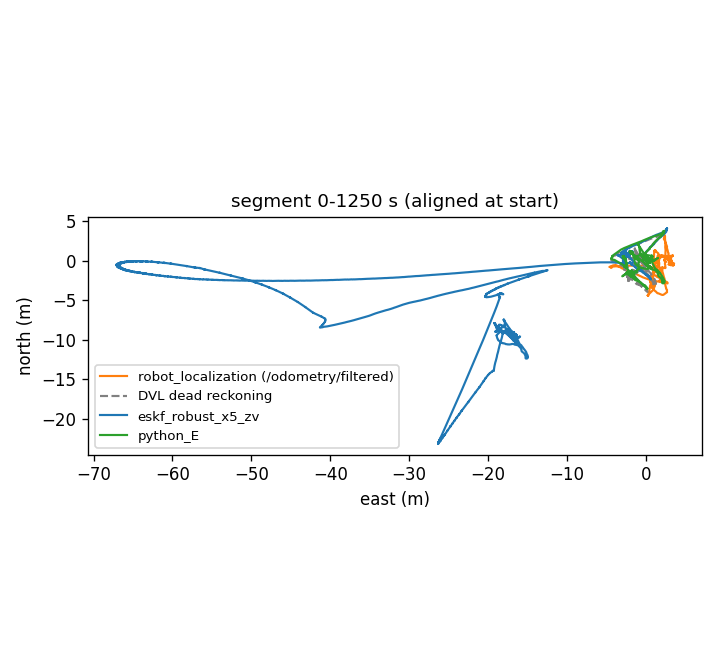
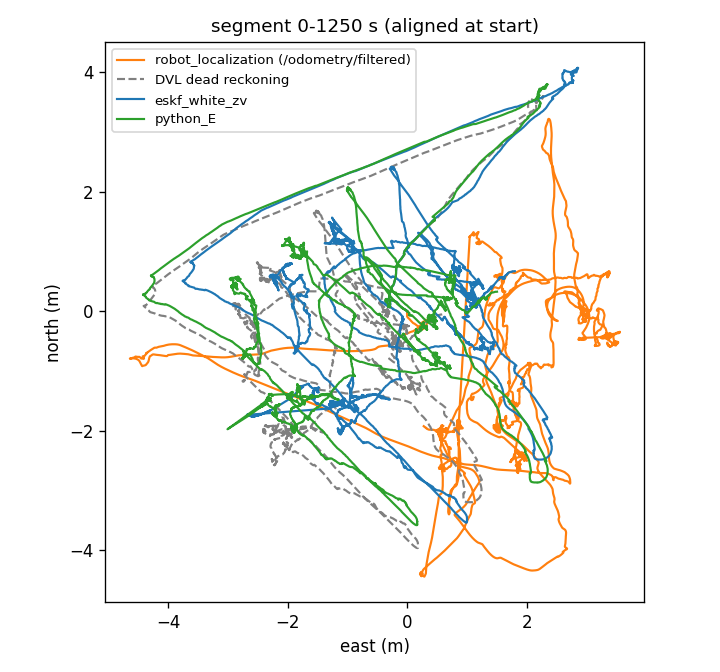
Add the innovation whiteness test and re-tune the ESKF from it
The ESKF now saves normalized innovations; whiteness_test.py checks their
autocorrelation against the white-noise band. The test exposed a vertical
accelerometer bias the filter could not learn (its prior was the in-run
stability): with a 0.2 m/s^2 initial uncertainty both logs estimate the
same bias (-0.14 / -0.16 m/s^2), and the earlier x20-30 noise inflation
turns out to have been compensating for it. The re-tuned variant
(eskf_white_zv: x10 noise, DVL sigma 0.015 m/s) makes the DVL innovations
far closer to white. The VN-200 heading remains strongly correlated.

Changed region(s): [[0.0, 0.0312, 0.9778, 0.9688], [0.6722, 0.8125, 0.7028, 0.8438]]

diff --git a/real_data/whiteness_test.py b/real_data/whiteness_test.py
@@ -1,0 +1,115 @@
+"""Innovation autocorrelation (whiteness) test for the ESKF on a recorded run.
+
+    [REAL_DATA_RUN=<run>] python whiteness_test.py [variant ...]
+
+A correctly modelled Kalman filter has white innovations (Bar-Shalom, Li & Kirubarajan 2001, ch. 5).
+The ESKF saves normalized innovations nu = L^-1 r (S = L L'). For each sensor this script computes
+- the time-averaged normalized autocorrelation  rho(l) = sum nu_k' nu_{k+l} / sqrt(sum |nu_k|^2 sum |nu_{k+l}|^2)
+  over pairs l samples apart inside one continuous stretch (stretches end at gaps > 3x the median spacing),
+  with the 95 % whiteness band +-1.96 / sqrt(K) (K = number of pairs);
+- the per-component autocorrelation (same formula, one component);
+- the mean test: |mean(nu)| against 1.96 / sqrt(N).
+Writes <run results>/whiteness_table.txt and whiteness_acf.png.
+"""
+import sys
+
+import numpy as np
+import matplotlib
+matplotlib.use('Agg')
+import matplotlib.pyplot as plt
+from scipy.io import loadmat
+
+from paths import DATA, RESULTS, RUN
+
+VARIANTS = sys.argv[1:] or ['eskf_ungated_zv', 'eskf_accel30_zv', 'eskf_hdg0p2hz_zv']
+SENSORS = ['dvl', 'depth', 'heading']
+MAX_LAG_S = 10.0
+
+
+def stretches(t):
+    d = np.diff(t)
+    cut = np.where(d > 3 * np.median(d))[0] + 1
+    return np.split(np.arange(len(t)), cut)
+
+
+def acf(nu, t, max_lag):
+    """rho(l), band(l), and per-component rho for l = 1..max_lag (pairs within one stretch only)."""
+    segs = [s for s in stretches(t) if len(s) > max_lag + 5]
+    rho, band, comp = [], [], []
+    for lag in range(1, max_lag + 1):
+        a = np.concatenate([nu[s[:-lag]] for s in segs])
+        b = np.concatenate([nu[s[lag:]] for s in segs])
+        num = np.sum(a * b)
+        rho.append(num / np.sqrt(np.sum(a * a) * np.sum(b * b)))
+        band.append(1.96 / np.sqrt(len(a)))
+        comp.append(np.sum(a * b, axis=0) / np.sqrt(np.sum(a * a, axis=0) * np.sum(b * b, axis=0)))
+    return np.array(rho), np.array(band), np.array(comp)
+
+
+lines = [f'Run: {RUN or "2026-11-05 (uncorrected DVL mounting)"}. Innovation whiteness (autocorrelation) test.',
+         'rho(l): time-averaged normalized autocorrelation of the normalized innovations at lag l;',
+         'white innovations stay inside +-1.96/sqrt(K) at about 95 % of lags. "decorrelates" = first lag inside the band.', '']
+curves = {}
+for v in VARIANTS:
+    f = DATA / f'{v}.mat'
+    if not f.exists():
+        continue
+    r = loadmat(f, squeeze_me=True, struct_as_record=False)
+    if not hasattr(r['innov'], 'dvl'):
+        lines.append(f'{v}: no innovations saved (re-run run_real_log)')
+        continue
+    lines.append(f'== {v}')
+    for s in SENSORS:
+        nu = np.atleast_2d(np.asarray(getattr(r['innov'], s), float))
+        if nu.size == 0:
+            continue
+        if nu.shape[0] == 1 and nu.shape[1] > 3:
+            nu = nu.T
+        t = np.asarray(getattr(r['innov_t'], s), float).ravel()
+        ok = np.all(np.isfinite(nu), axis=1) & np.isfinite(t)
+        nu, t = nu[ok], t[ok]
+        if len(t) < 50:
+            continue
+        dt = float(np.median(np.diff(t)))
+        L = int(round(MAX_LAG_S / dt))
+        rho, band, comp = acf(nu, t, L)
+        out = np.abs(rho) > band
+        first_in = int(np.argmax(~out)) + 1 if (~out).any() else None
+        mean = nu.mean(axis=0)
+        mean_ok = np.abs(mean) < 1.96 / np.sqrt(len(nu))
+        pick = [l for l in (1, 2, 5, 10, 20, 50) if l <= L]
+        lines.append(
+            f'  {s:8s} N={len(nu):6d} spacing {dt * 1000:5.0f} ms | rho at lag ' +
+            ', '.join(f'{l} ({l * dt:.2f} s): {rho[l - 1]:+.3f}' for l in pick) +
+            f' | band ±{band[0]:.3f} | outside band {100 * out.mean():4.0f} % of lags 1..{L}'
+            f' | decorrelates at {"never within %.0f s" % MAX_LAG_S if first_in is None else f"lag {first_in} ({first_in * dt:.2f} s)"}'
+            f' | mean {np.round(mean, 3).tolist()} {"ok" if mean_ok.all() else "BIASED"}')
+        if nu.shape[1] > 1:
+            lines.append(f'  {"":8s} per component at lag 1: ' + ', '.join(f'{c:+.3f}' for c in comp[0]))
+        curves[(v, s)] = (np.arange(1, L + 1) * dt, rho, band)
+text = '\n'.join(lines) + '\n'
+print(text)
+RESULTS.mkdir(parents=True, exist_ok=True)
+(RESULTS / 'whiteness_table.txt').write_text(text)
+
+main = next((v for v in VARIANTS if any(k[0] == v for k in curves)), None)
+if main:
+    shown = [s for s in SENSORS if any(k[1] == s for k in curves)]
+    fig, axs = plt.subplots(1, len(shown), figsize=(5 * len(shown), 4.2), sharey=True)
+    axs = np.atleast_1d(axs)
+    for ax, s in zip(axs, shown):
+        for v, c in zip(VARIANTS, ('tab:blue', 'tab:orange', 'tab:green')):
+            if (v, s) in curves:
+                lag_s, rho, band = curves[(v, s)]
+                ax.plot(lag_s, rho, color=c, lw=1.5, label=v)
+                ax.plot(lag_s, band, color='k', lw=0.8, ls='--')
+                ax.plot(lag_s, -band, color='k', lw=0.8, ls='--')
+        ax.axhline(0, color='0.7', lw=0.8)
+        ax.set_title(f'{s} innovations', fontsize=11)
+        ax.set_xlabel('lag (s)')
+    axs[0].set_ylabel('normalized autocorrelation')
+    axs[0].legend(fontsize=8)
+    fig.suptitle(f'Innovation whiteness test, {RUN or "2026-11-05 uncorrected"} (dashed: 95 % band for white noise)', fontsize=12)
+    plt.tight_layout()
+    plt.savefig(RESULTS / 'whiteness_acf.png', dpi=120)
+    print('saved', RESULTS / 'whiteness_acf.png')

diff --git a/estimator_m/run_real_log.m b/estimator_m/run_real_log.m
@@ -19,6 +19,10 @@ function run_real_log(variants, run)
 %   eskf_oc_robusthdg_zv  as eskf_oc_zv, plus a robust heading update (NIS cap 6.63) against VN-200 yaw jumps
 %   eskf_accel30_zv       as eskf_ungated_zv with accelerometer noise x30 (NIS-tuned on the 2026-11-11 run)
 %   eskf_robust_x5_zv     robust update with accelerometer noise x5 (corrected 2026-11-05 DVL mounting)
+%   eskf_babig_zv         as eskf_ungated_zv, initial accelerometer-bias sigma 0.2 m/s^2 (whiteness test fix)
+%   eskf_accel30_babig_zv as eskf_accel30_zv, initial accelerometer-bias sigma 0.2 m/s^2
+%   eskf_white_zv         re-tuned after the whiteness test: accelerometer-bias sigma0 0.2 m/s^2,
+%                         accelerometer noise x10, DVL sigma 0.015 m/s
 %   eskf_hdg1hz_zv        as eskf_ungated_zv, VN-200 yaw used at 1 Hz (sigma 1.3 deg)
 %   eskf_hdg0p2hz_zv      as eskf_ungated_zv, VN-200 yaw used at 0.2 Hz with sigma 3 deg (less trust in a
 %                         time-correlated, jumpy magnetometer heading)
@@ -44,7 +48,8 @@ for i = 1:numel(variants)
     cfg = tuned; if strcmp(v, 'eskf_datasheet_zv'), cfg = datasheet; end
     if strcmp(v, 'eskf_hdg1hz_zv'), cfg.heading.rate_hz = 1; end
     if strcmp(v, 'eskf_hdg0p2hz_zv'), cfg.heading.rate_hz = 0.2; cfg.heading.sigma = 3 * pi / 180; end
-    if strcmp(v, 'eskf_accel30_zv'), cfg.imu.accel_nd = 30 * config_estimator().imu.accel_nd; end
+    if any(strcmp(v, {'eskf_accel30_zv', 'eskf_accel30_babig_zv'})), cfg.imu.accel_nd = 30 * config_estimator().imu.accel_nd; end
+    if strcmp(v, 'eskf_white_zv'), cfg.imu.accel_nd = 10 * config_estimator().imu.accel_nd; cfg.dvl.sigma = 0.015; end
     if strcmp(v, 'eskf_robust_x5_zv'), cfg.imu.accel_nd = 5 * config_estimator().imu.accel_nd; end
     use_zv = numel(v) > 3 && strcmp(v(end-2:end), '_zv');
     opts = gated;
@@ -56,8 +61,12 @@ for i = 1:numel(variants)
     if strcmp(v, 'eskf_noheading_oc_zv'), opts = struct('oc', true); use = {'dvl', 'depth', 'zero_vel'}; end
     if strcmp(v, 'eskf_oc_zv'), opts = struct('oc', true); end
     if strcmp(v, 'eskf_oc_robusthdg_zv'), opts = struct('oc', true); opts.robust.heading = 6.63; end
-    if any(strcmp(v, {'eskf_hdg1hz_zv', 'eskf_hdg0p2hz_zv', 'eskf_accel30_zv'})), opts = struct(); end
+    if any(strcmp(v, {'eskf_hdg1hz_zv', 'eskf_hdg0p2hz_zv', 'eskf_accel30_zv', 'eskf_babig_zv', ...
+                      'eskf_accel30_babig_zv', 'eskf_white_zv'})), opts = struct(); end
     [tr, imu, meas, x0, P0, raw, cfg] = load_real_log(fullfile(data, 'real_log.mat'), cfg, use_zv);
+    if any(strcmp(v, {'eskf_babig_zv', 'eskf_accel30_babig_zv', 'eskf_white_zv'}))
+        P0(10:12, 10:12) = 0.2^2 * eye(3);    % turn-on accelerometer bias unknown, not the in-run 0.0004 m/s^2
+    end
     tic;
     gaps = zeros(0, 2); if isfield(raw, 'imu_gaps'), gaps = reshape(raw.imu_gaps, [], 2); end
     res = run_segments(tr, imu, meas, cfg, 'rw', x0, P0, log_every, use, opts, gaps, raw.vn_euler_grid);

diff --git a/estimator_m/run_filter.m b/estimator_m/run_filter.m
@@ -41,14 +41,19 @@ end
 Q = eskf_Q(tr.dt, cfg, filter_bias);
 x = x0; P = P0; w_ib = zeros(3, 1);
 nis = struct();
+dims = struct('dvl', 3, 'depth', 1, 'gnss_pos', 3, 'gnss_vel', 3, 'heading', 1, 'zero_vel', 3);
 for s = 1:numel(names)
     if isfield(meas, names{s}) && any(strcmp(use, names{s}))
-        nis.(names{s}) = zeros(1, numel(meas.(names{s})));
-        res.accepted.(names{s}) = true(1, numel(meas.(names{s})));
+        m = numel(meas.(names{s}));
+        nis.(names{s}) = zeros(1, m);
+        res.accepted.(names{s}) = true(1, m);
     else
+        m = 0;
         nis.(names{s}) = [];
         res.accepted.(names{s}) = true(1, 0);
     end
+    res.innov.(names{s}) = NaN(m, dims.(names{s}));   % normalized innovations, for the whiteness test
+    res.innov_t.(names{s}) = NaN(m, 1);               % their times (s)
 end
 nlog = floor(tr.n / log_every) + 1;
 res.t = zeros(nlog, 1); res.err = NaN(nlog, 16); res.sd = zeros(nlog, 16); res.nees = NaN(nlog, 1);
@@ -69,8 +74,10 @@ for k = 1:tr.n + 1                   % sample index (1-based)
         z = meas.(name)(sched(r, 3)).z;
         g = gate.(name);
         if consec.(name) >= opts.max_consecutive_rejects, g = Inf; end
-        [x, P, nv, ok, lam] = eskf_update(x, P, name, z, w_ib, cfg, g, robust.(name), opts.oc);
+        [x, P, nv, ok, lam, nu] = eskf_update(x, P, name, z, w_ib, cfg, g, robust.(name), opts.oc);
         nis.(name)(sched(r, 3)) = nv;
+        res.innov.(name)(sched(r, 3), :) = nu';
+        res.innov_t.(name)(sched(r, 3)) = tr.t(k);
         res.accepted.(name)(sched(r, 3)) = ok;
         if lam > 1, res.downweighted.(name) = res.downweighted.(name) + 1; end
         if ok

diff --git a/real_data/compare_run.py b/real_data/compare_run.py
@@ -20,7 +20,7 @@ from scipy.spatial.transform import Rotation as Rot
 from ekf_localization import EXTRACTED, RUNS, R_DVL_LEVER, load
 from paths import DATA, RESULTS, RUN
 
-ESKF = ['eskf_ungated_zv', 'eskf_accel30_zv', 'eskf_robust_x5_zv', 'eskf_hdg0p2hz_zv', 'eskf_oc_zv', 'eskf_robust_zv',
+ESKF = ['eskf_white_zv', 'eskf_babig_zv', 'eskf_ungated_zv', 'eskf_accel30_zv', 'eskf_robust_x5_zv', 'eskf_hdg0p2hz_zv', 'eskf_oc_zv', 'eskf_robust_zv',
         'eskf_gated_zv', 'eskf_noheading_zv', 'eskf_datasheet_zv']
 
 imu, dvl, _, _ = load()
@@ -134,7 +134,7 @@ fig, axs = plt.subplots(1, len(segs), figsize=(6 * len(segs), 5.6))
 axs = np.atleast_1d(axs)
 style = {'robot_localization (/odometry/filtered)': ('tab:orange', '-'), '/odometry/ekf': ('tab:purple', '-'),
          'DVL dead reckoning': ('gray', '--'), 'eskf_accel30_zv': ('tab:blue', '-'), 'python_E': ('tab:green', '-')}
-main = next((n for n in ('eskf_accel30_zv', 'eskf_robust_x5_zv', 'eskf_ungated_zv') if n in est), None)
+main = next((n for n in ('eskf_white_zv', 'eskf_accel30_zv', 'eskf_ungated_zv') if n in est), None)
 style[main] = ('tab:blue', '-')
 for ax, (a, b) in zip(axs, segs):
     for name, (t, xy) in list(refs.items()) + [(n, (est[n]['t'], est[n]['xy'])) for n in (main, 'python_E') if n in est]:

diff --git a/estimator_m/eskf_update.m b/estimator_m/eskf_update.m
@@ -1,5 +1,7 @@
-function [x, P, nis, accepted, lambda] = eskf_update(x, P, name, z, w_ib, cfg, gate, robust_k2, oc)
+function [x, P, nis, accepted, lambda, nu] = eskf_update(x, P, name, z, w_ib, cfg, gate, robust_k2, oc)
 % ESKF_UPDATE  Joseph-form update, injection, reset G = I. Returns NIS (before any down-weighting).
+% nu: normalized innovation L \ r with S = L L' (before any down-weighting); white with unit covariance
+% when the filter's models are right, which is what the innovation autocorrelation test checks.
 % Optional gate: skip the update (accepted = false) when NIS > gate. Default Inf (no gating).
 % Optional robust_k2: when NIS > robust_k2, inflate the measurement noise by lambda > 1 so that the
 % NIS becomes robust_k2, then update. Outliers keep at most the pull of a borderline measurement and
@@ -20,6 +22,7 @@ if strcmp(name, 'heading'), r = wrap_pi(r); end
 HPH = H * P * H';
 S = HPH + Rm;
 nis = r' * (S \ r);
+nu = chol(0.5 * (S + S'), 'lower') \ r;
 lambda = 1;
 accepted = nis <= gate;
 if ~accepted, return; end

diff --git a/estimator_m/run_segments.m b/estimator_m/run_segments.m
@@ -33,6 +33,7 @@ for s = 1:numel(ends)
     end
     r = run_filter(seg, si, sm, [], cfg, filter_bias, x, P0, log_every, use, opts);
     r.t = r.t + (k1 - 1) * tr.dt;
+    for f = fieldnames(r.innov_t)', r.innov_t.(f{1}) = r.innov_t.(f{1}) + (k1 - 1) * tr.dt; end
     last = r.x(end, :);
     x = make_state(last(1:3), last(4:6), last(7:10), last(11:13), last(14:16), last(17));
     out = [out, r]; %#ok<AGROW>
@@ -47,6 +48,8 @@ for i = 2:numel(out)
         res.accepted.(f{1}) = [res.accepted.(f{1}), out(i).accepted.(f{1})];
         res.rejected.(f{1}) = res.rejected.(f{1}) + out(i).rejected.(f{1});
         res.downweighted.(f{1}) = res.downweighted.(f{1}) + out(i).downweighted.(f{1});
+        res.innov.(f{1}) = [res.innov.(f{1}); out(i).innov.(f{1})];
+        res.innov_t.(f{1}) = [res.innov_t.(f{1}); out(i).innov_t.(f{1})];
     end
 end
 res.P_end = out(end).P_end;

diff --git a/real_data/README.md b/real_data/README.md
@@ -31,6 +31,7 @@ ESKF in `estimator_m/`. See `../decisions/ADR-001-localization-architecture.md` 
 | `paths.py` | Per-run folders (`REAL_DATA_RUN`) and per-run sensor geometry read from `/tf_static` |
 | `compare_run.py` | Any run: ESKF variants and the Python EKF vs every ROS estimator and DVL dead reckoning, per gap-free segment |
 | `dvl_mount_fit.py` | Estimates the DVL mounting yaw from IMU vs DVL kinematics (no ground truth needed) |
+| `whiteness_test.py` | Innovation autocorrelation (whiteness) test of the ESKF: `results/<run>/whiteness_table.txt`, `whiteness_acf.png` |
 | `mount_overrides.json` | Corrected mountings for runs whose `/tf_static` is wrong, with the evidence |
 | `requirements.txt` | Python packages |
 | `results/` | Committed outputs of the run below |
@@ -316,3 +317,61 @@ R_base_dvl (FLU) = [ -0.7071   0.7071   0 ]     R_bd (FRD, used by the filter) =
   prediction equals R_bdᵀ times the body-axes prediction.
 - Re-running every ESKF variant on the corrected 2026-11-05 log and on the tape test with the explicit matrix
   reproduces the earlier results to floating-point precision (largest position difference 1.6e-11 m).
+
+## Innovation autocorrelation (whiteness) test (2026-11-14)
+
+**What the test checks.** A correctly modelled Kalman filter has **white** innovations: uncorrelated from one
+measurement to the next (Bar-Shalom, Li & Kirubarajan 2001). NIS only checks their size; this checks their
+time structure.
+
+**How it's done:**
+- The ESKF now saves normalized innovations ν = L⁻¹·r (S = L·Lᵀ) with their times (`res.innov`, `res.innov_t`).
+- `real_data/whiteness_test.py` computes the time-averaged normalized autocorrelation ρ(l) over pairs inside
+  each continuous stretch, against the white-noise band ±1.96/√K. It also runs the mean test.
+- Outputs: `results/<run>/whiteness_table.txt` and `whiteness_acf.png`.
+
+**What the test found** (old tuning: accelerometer noise ×20–30, DVL σ 0.05 m/s):
+
+| Sensor | Lag-1 ρ | ρ at 6 s | Mean (white needs ≈ 0) | Cause |
+|---|---|---|---|---|
+| DVL vertical | 0.94 / 0.99 | ≈ 0.95 | **+1.1σ / +1.3–2.0σ** | accelerometer bias not learned (below) |
+| DVL horizontal | 0.53–0.73 | ≈ 0.6 | ≈ 0 | white-noise acceleration model vs smooth real motion |
+| Heading (VN-200 yaw) | 0.92–0.97 | ≈ 0.8 | small | the VN-200 yaw error is strongly time-correlated |
+| Depth (first log) | 0.17 | 0.06 | +0.27σ | mild |
+
+(Values given as first log / tape test.)
+
+**Cause 1: the accelerometer bias could not be learned.**
+- **The evidence:** the accelerometer reads gravity as 9.90–9.93 m/s². No place on Earth exceeds 9.83, so there
+  is a vertical bias or scale error.
+- **Why the filter missed it:** its bias state started with the datasheet's *in-run stability* (0.0004 m/s²) as
+  its uncertainty, far below a real unit's turn-on bias, so it could barely move.
+- **The fix** (`eskf_babig_zv`): a 0.2 m/s² starting uncertainty. Both logs then estimate the **same vertical
+  bias (−0.14 and −0.16 m/s²)**, and the vertical DVL innovation mean drops to +0.03σ / +0.002σ.
+
+**Cause 1 also changes the noise tuning.** With the bias learned, the ×20–30 accelerometer noise turns out to
+have been compensating for it. A two-parameter re-tune (accelerometer noise, DVL σ; NIS and lag-1 ρ) gives
+`eskf_white_zv`: bias σ₀ 0.2 m/s², accelerometer noise **×10**, DVL σ **0.015 m/s**.
+
+| | First log (corrected mounting): old → re-tuned | Tape test: old → re-tuned |
+|---|---|---|
+| DVL ρ at lags 1 / 2 / 5 | 0.73 / 0.61 / 0.58 → **0.28 / 0.00 / −0.01** | 0.98 / 0.96 / 0.94 → **0.55 / 0.21 / −0.22** |
+| DVL ρ at 6 s | 0.60 → **0.06** | 0.95 → **0.05** |
+| DVL lags outside the white band | 100 % → 96 % (small values, large N) | 100 % → **50 %** |
+| DVL median NIS (target 2.37) | 1.75 → 1.65 | 1.91 → 0.83 |
+| RMS vs DVL dead reckoning | 0.17 → **0.14 m** | 0.03 → 0.03 m |
+
+**Still not white:**
+- **Heading** (ρ ≈ 0.9 at every lag up to 10 s). It needs a Gauss–Markov heading-error state, or a better heading
+  source.
+- **DVL at lag 1** (0.28 / 0.55), with an oscillation on the tape test. The constant-velocity, white-acceleration
+  model can't follow smooth real motion; a correlated-acceleration state or the `plant_m` dynamics would.
+- **Depth,** mildly (ρ 0.17).
+- **The first log's heavy tail** (16 % beyond 99 % with σ 0.015). The robust update suits that log.
+
+**Open:** on the tape test the filter estimates an x accelerometer bias of 0.12 m/s² (first log ≈ 0). It may be
+absorbing the remaining DVL misalignment (fit −131° vs `/tf_static` −135°).
+
+**Revision to an earlier headline:** "the datasheet noise was 20× too optimistic" was mostly the unmodelled
+accelerometer bias, plus the DVL mounting error on the first log. With both fixed, ×10 with a tighter DVL σ fits
+better, and the innovations are far closer to white.

diff --git a/estimator_m/README.md b/estimator_m/README.md
@@ -334,3 +334,61 @@ R_base_dvl (FLU) = [ -0.7071   0.7071   0 ]     R_bd (FRD, used by the filter) =
   prediction equals R_bdᵀ times the body-axes prediction.
 - Re-running every ESKF variant on the corrected 2026-11-05 log and on the tape test with the explicit matrix
   reproduces the earlier results to floating-point precision (largest position difference 1.6e-11 m).
+
+## Innovation autocorrelation (whiteness) test (2026-11-14)
+
+**What the test checks.** A correctly modelled Kalman filter has **white** innovations: uncorrelated from one
+measurement to the next (Bar-Shalom, Li & Kirubarajan 2001). NIS only checks their size; this checks their
+time structure.
+
+**How it's done:**
+- The ESKF now saves normalized innovations ν = L⁻¹·r (S = L·Lᵀ) with their times (`res.innov`, `res.innov_t`).
+- `real_data/whiteness_test.py` computes the time-averaged normalized autocorrelation ρ(l) over pairs inside
+  each continuous stretch, against the white-noise band ±1.96/√K. It also runs the mean test.
+- Outputs: `results/<run>/whiteness_table.txt` and `whiteness_acf.png`.
+
+**What the test found** (old tuning: accelerometer noise ×20–30, DVL σ 0.05 m/s):
+
+| Sensor | Lag-1 ρ | ρ at 6 s | Mean (white needs ≈ 0) | Cause |
+|---|---|---|---|---|
+| DVL vertical | 0.94 / 0.99 | ≈ 0.95 | **+1.1σ / +1.3–2.0σ** | accelerometer bias not learned (below) |
+| DVL horizontal | 0.53–0.73 | ≈ 0.6 | ≈ 0 | white-noise acceleration model vs smooth real motion |
+| Heading (VN-200 yaw) | 0.92–0.97 | ≈ 0.8 | small | the VN-200 yaw error is strongly time-correlated |
+| Depth (first log) | 0.17 | 0.06 | +0.27σ | mild |
+
+(Values given as first log / tape test.)
+
+**Cause 1: the accelerometer bias could not be learned.**
+- **The evidence:** the accelerometer reads gravity as 9.90–9.93 m/s². No place on Earth exceeds 9.83, so there
+  is a vertical bias or scale error.
+- **Why the filter missed it:** its bias state started with the datasheet's *in-run stability* (0.0004 m/s²) as
+  its uncertainty, far below a real unit's turn-on bias, so it could barely move.
+- **The fix** (`eskf_babig_zv`): a 0.2 m/s² starting uncertainty. Both logs then estimate the **same vertical
+  bias (−0.14 and −0.16 m/s²)**, and the vertical DVL innovation mean drops to +0.03σ / +0.002σ.
+
+**Cause 1 also changes the noise tuning.** With the bias learned, the ×20–30 accelerometer noise turns out to
+have been compensating for it. A two-parameter re-tune (accelerometer noise, DVL σ; NIS and lag-1 ρ) gives
+`eskf_white_zv`: bias σ₀ 0.2 m/s², accelerometer noise **×10**, DVL σ **0.015 m/s**.
+
+| | First log (corrected mounting): old → re-tuned | Tape test: old → re-tuned |
+|---|---|---|
+| DVL ρ at lags 1 / 2 / 5 | 0.73 / 0.61 / 0.58 → **0.28 / 0.00 / −0.01** | 0.98 / 0.96 / 0.94 → **0.55 / 0.21 / −0.22** |
+| DVL ρ at 6 s | 0.60 → **0.06** | 0.95 → **0.05** |
+| DVL lags outside the white band | 100 % → 96 % (small values, large N) | 100 % → **50 %** |
+| DVL median NIS (target 2.37) | 1.75 → 1.65 | 1.91 → 0.83 |
+| RMS vs DVL dead reckoning | 0.17 → **0.14 m** | 0.03 → 0.03 m |
+
+**Still not white:**
+- **Heading** (ρ ≈ 0.9 at every lag up to 10 s). It needs a Gauss–Markov heading-error state, or a better heading
+  source.
+- **DVL at lag 1** (0.28 / 0.55), with an oscillation on the tape test. The constant-velocity, white-acceleration
+  model can't follow smooth real motion; a correlated-acceleration state or the `plant_m` dynamics would.
+- **Depth,** mildly (ρ 0.17).
+- **The first log's heavy tail** (16 % beyond 99 % with σ 0.015). The robust update suits that log.
+
+**Open:** on the tape test the filter estimates an x accelerometer bias of 0.12 m/s² (first log ≈ 0). It may be
+absorbing the remaining DVL misalignment (fit −131° vs `/tf_static` −135°).
+
+**Revision to an earlier headline:** "the datasheet noise was 20× too optimistic" was mostly the unmodelled
+accelerometer bias, plus the DVL mounting error on the first log. With both fixed, ×10 with a tighter DVL σ fits
+better, and the innovations are far closer to white.
